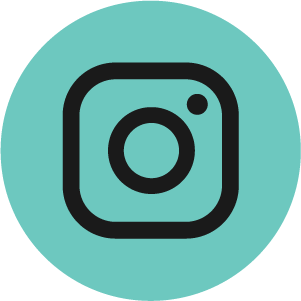
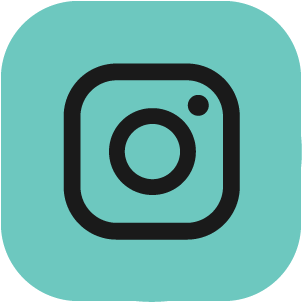
change design7

diff --git a/src/Pages/Social/Social.jsx b/src/Pages/Social/Social.jsx
@@ -4,10 +4,11 @@ export const Social = () => {
     return (
         <div>
             <div className="social-div-wrapper">
-                <div className="discord-div" className="social-div"><a href="https://discord.gg/qRVdMB5Fc7" target="_blank"><img src="images/discord.png" alt="discord" /></a></div>
-                <div className="twitter-div" className="social-div"><a href=""><img src="images/facebook.png" alt="twitter" /></a></div>
-                <div className="instagram-div" className="social-div"><a href=""><img src="images/instagram.png" alt="instagram" /></a></div>
-                <div className="medium-div" className="social-div"><a href=""><img src="images/medium.png" alt="medium" /></a></div>
+                <div className="social-div"><a href="https://discord.gg/qRVdMB5Fc7" target="_blank"><img src="images/discord.png" alt="discord" /></a></div>
+                <div className="social-div"><a href=""><img src="images/facebook.png" alt="twitter" /></a></div>
+                <div className="social-div"><a href=""><img src="images/instagram.png" alt="instagram" /></a></div>
+                <div className="social-div"><a href=""><img src="images/medium.png" alt="medium" /></a></div>
+                <div className="social-div"><a href=""><img src="images/opensea.png" alt="medium" /></a></div>
             </div>
             <div className="smart-div">
                 <p><a href="">Smart Contract</a></p>

diff --git a/src/Pages/Social/Social.css b/src/Pages/Social/Social.css
@@ -2,13 +2,13 @@
     display: flex;
     align-items: center;
     justify-content: center;
-    padding: 30px 0;
+    padding: 20px 0;
     margin: auto;
 }
 
 .social-div {
-    width: 50px;
-    margin: 0 20px;
+    width: 45px;
+    margin: 0 10px;
     transition: 0.4s;
 }
 
